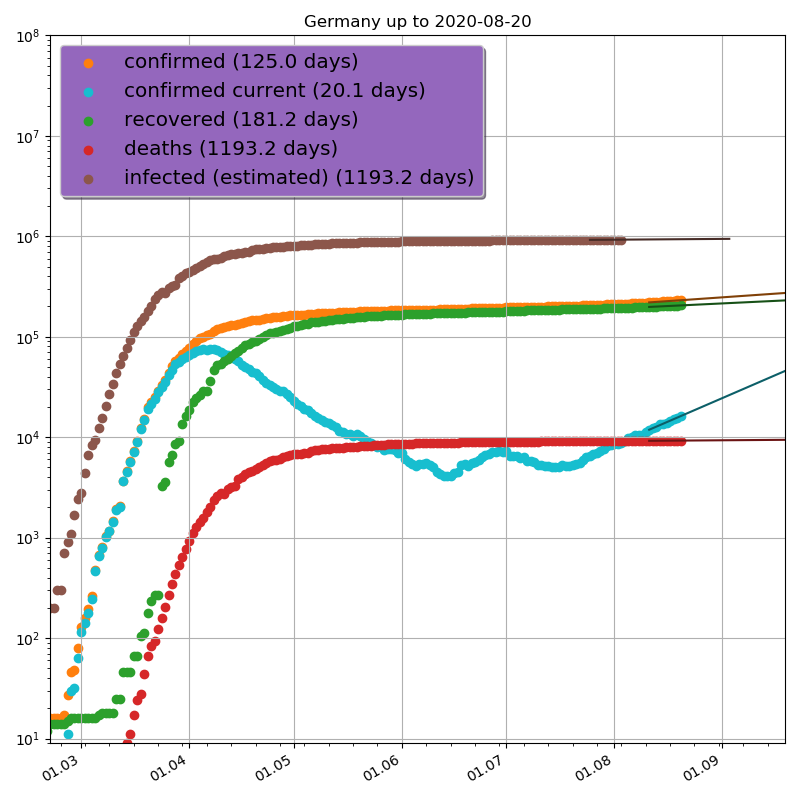
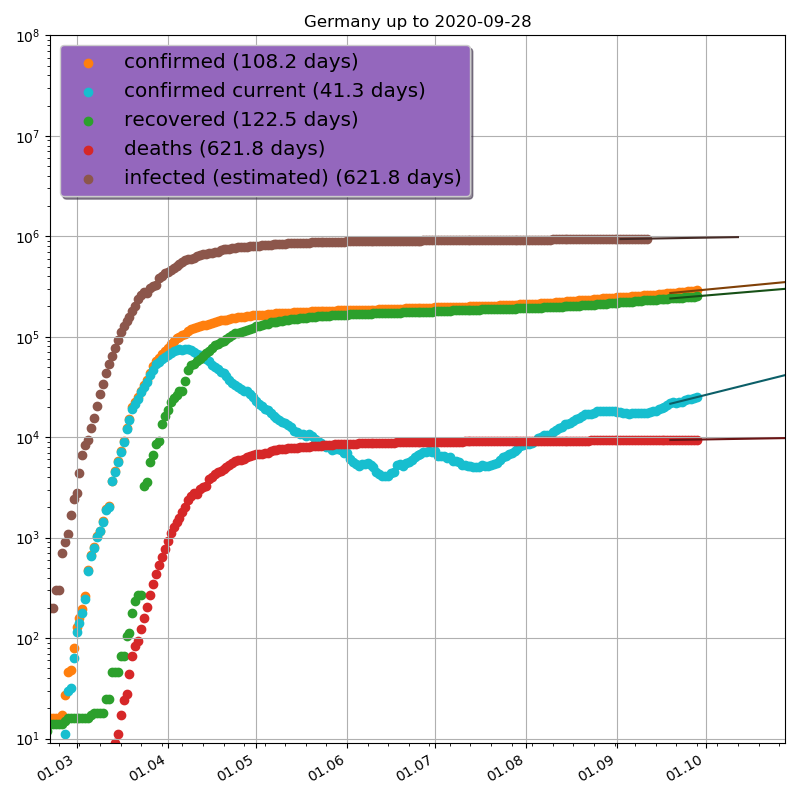
Plotting number of recently (previous 14 days) infected people

diff --git a/time_series.py b/time_series.py
@@ -52,7 +52,7 @@ class Dataset:
 
 
 class Entry:
-    def __init__(self, tag, color, label=None, date_offset=0, scale=1):
+    def __init__(self, tag, color, label=None, date_offset=0, scale=1, duration_days=None):
         self.tag = tag
         if label is None:
             self.label = tag
@@ -65,6 +65,7 @@ class Entry:
         self.color = color
         self.date_offset = date_offset
         self.scale = scale
+        self.duration = duration_days
 
 
 def process_header_row(row):
@@ -141,20 +142,26 @@ def darken_color(color, scale = 0.5):
     return tuple(np.array(rgb) * scale)
 
 
+days_fit = 10
 def plot_counts_dataset_entry(axis, dates, values, entry):
+    values = np.array(values)
+    if entry.duration:
+        values[entry.duration:] -= values[:-entry.duration]
     data_x = np.array(dates) + dt.timedelta(entry.date_offset)
     data_y = values * entry.scale
     # Linear fit (to log scale data) for last few days
-    fit_x, fit_y, double_time = fit_log_slope(data_x, data_y, days_fit=10, days_extrapolate=10)
+    fit_x, fit_y, double_time = fit_log_slope(data_x, data_y, days_fit=days_fit, days_extrapolate=30)
     label = entry.label + " ({:.1f} days)".format(double_time)
     axis.scatter(data_x, data_y, label=label, color=entry.color)
     axis.plot(fit_x, fit_y, color=darken_color(entry.color))
 
 
 def plot_rate_dataset_entry(axis, dates, values, entry):
-    days_fit = 10
     if (len(values) < days_fit):
         return
+    values = np.array(values)
+    if entry.duration:
+        values[entry.duration:] -= values[:-entry.duration]
     data_x = np.array(dates[days_fit:]) + dt.timedelta(entry.date_offset)
     data_y = values * entry.scale
     rate = []
@@ -217,6 +224,7 @@ def main(countries, filename_pattern):
     pattern = os.path.join(data_dir, filename_pattern)
     entries = [
         Entry("confirmed", color="C1"),
+        Entry("confirmed", color="C9", label="confirmed current", duration_days=14),
         Entry("recovered", color="C2"),
         Entry("deaths", color="C3"),
         Entry("deaths", color="C5", label="infected (estimated)", date_offset=-17, scale=100),
@@ -233,7 +241,7 @@ def main(countries, filename_pattern):
     all_dates = [d for dataset in datasets.values() for d in dataset.dates]
     date_start = min(all_dates) + dt.timedelta(30)
     date_latest = max(all_dates)
-    date_end = date_latest + dt.timedelta(5)
+    date_end = date_latest + dt.timedelta(30)
     options_count = {
         "yscale": "log",
         "ylim": (9, 1e8),
